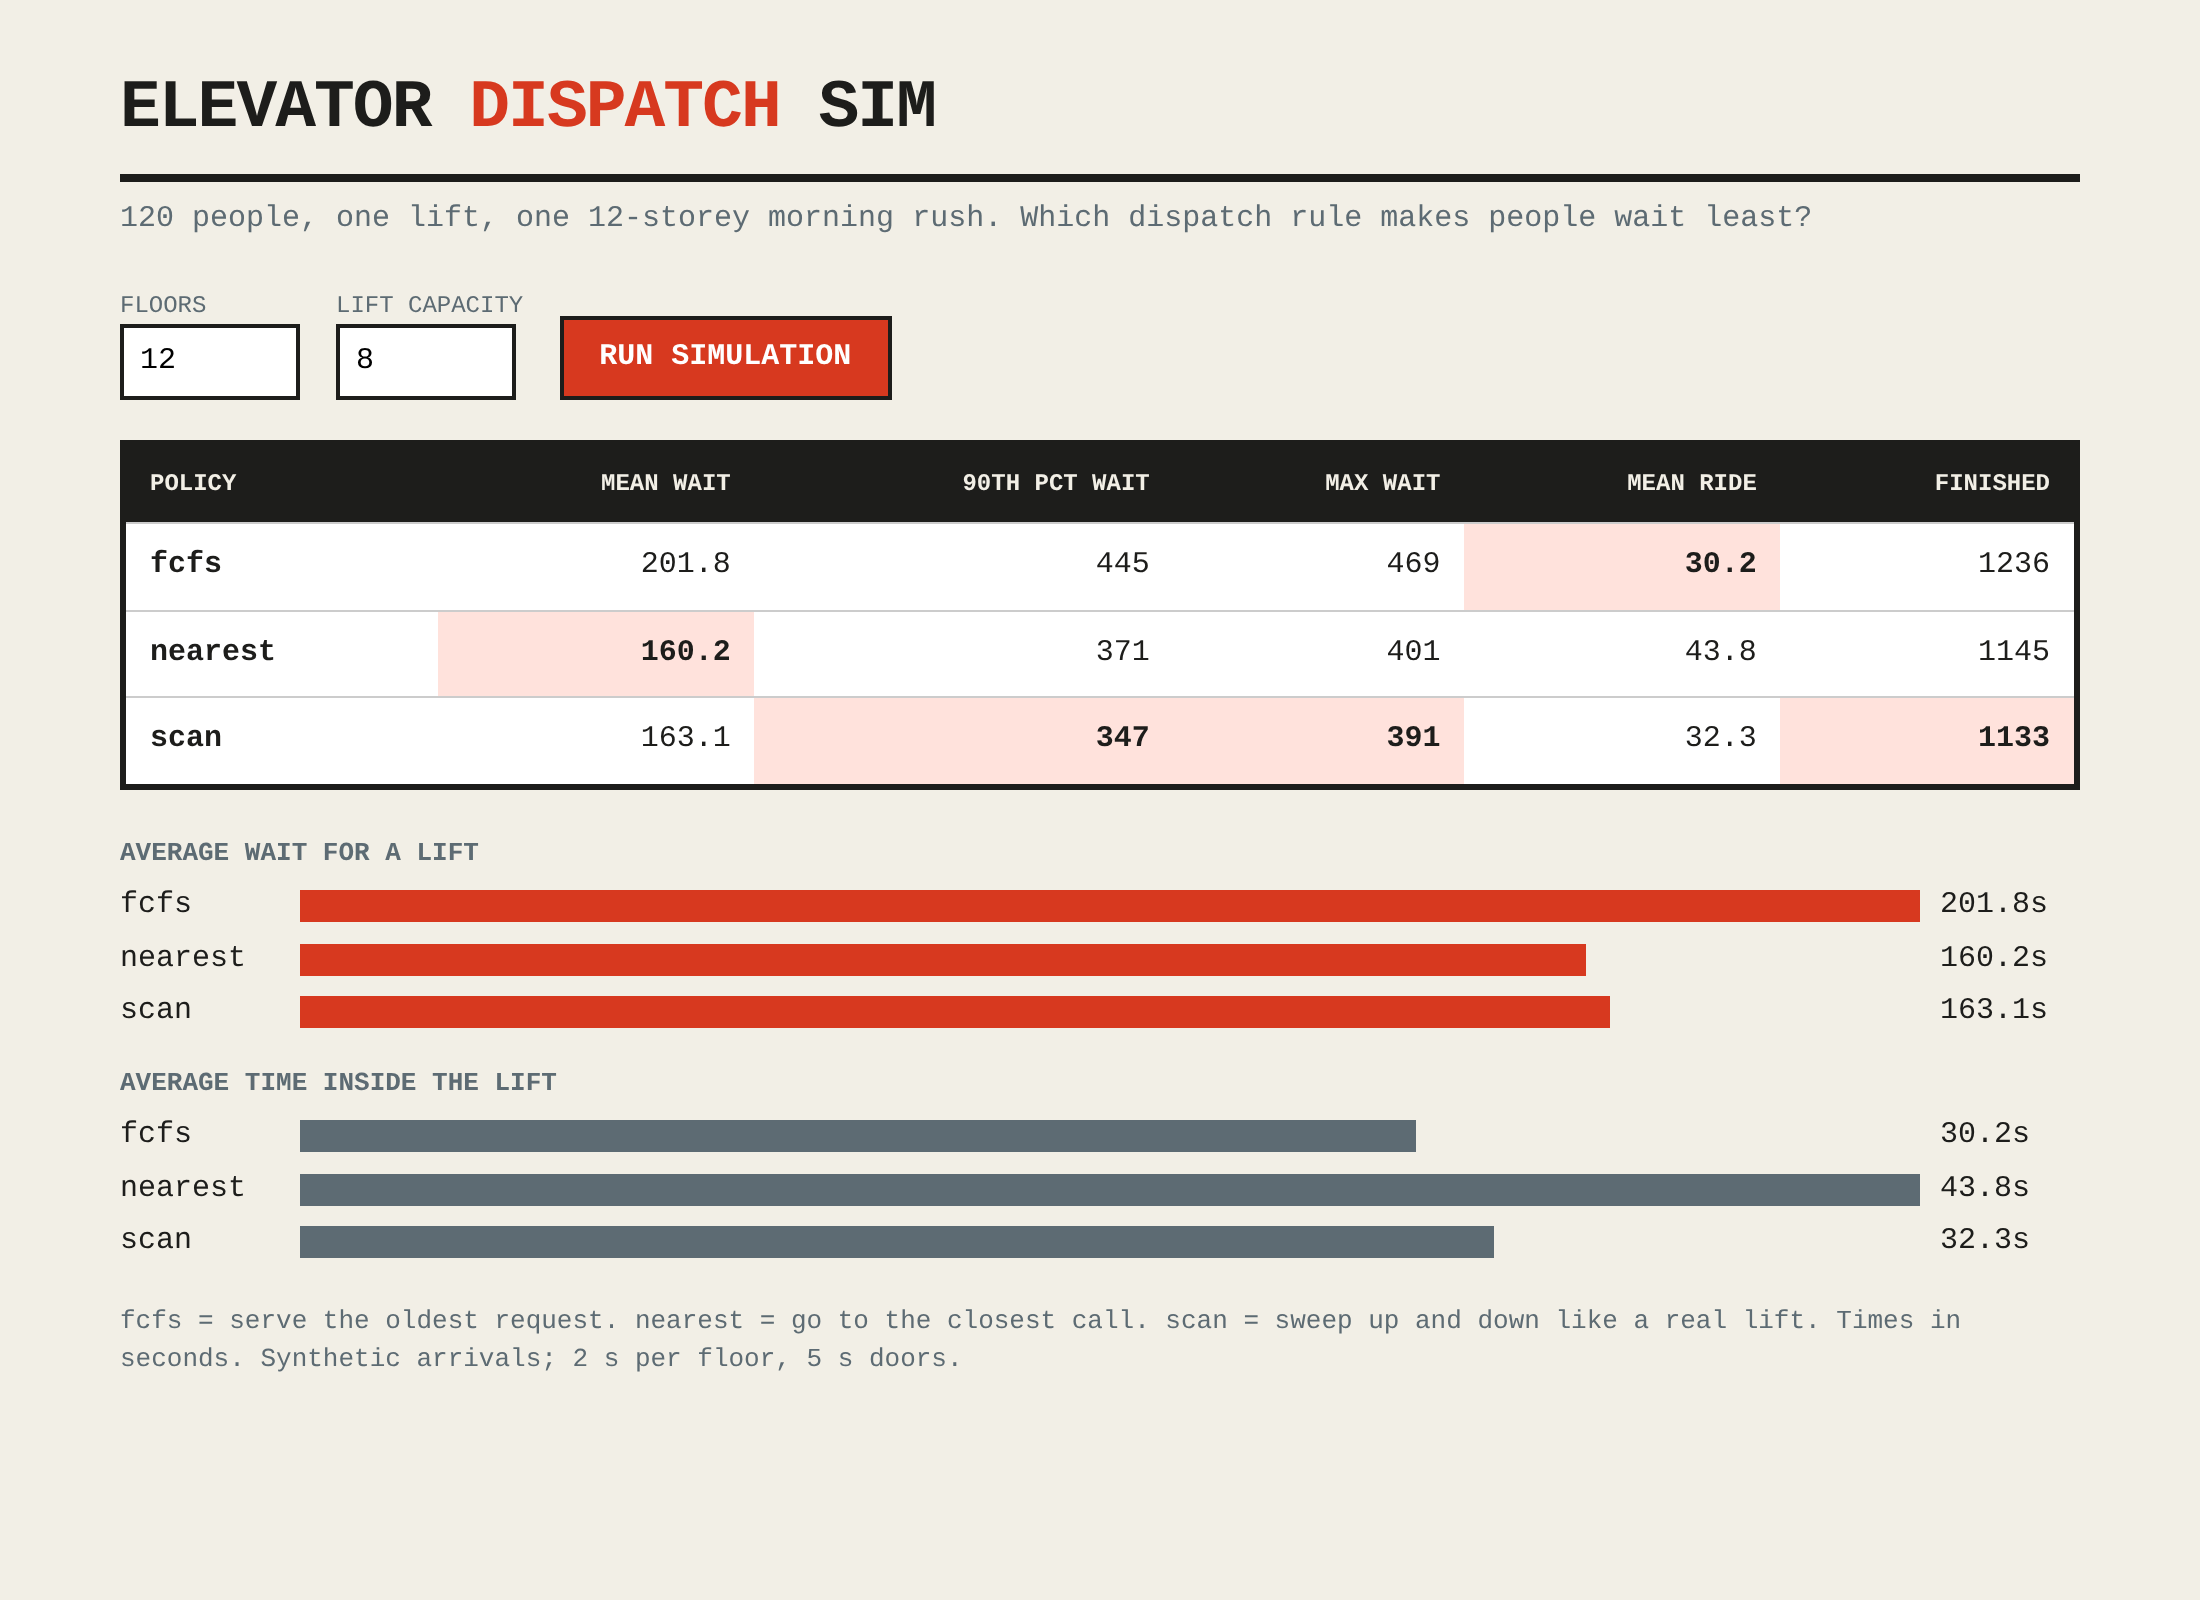
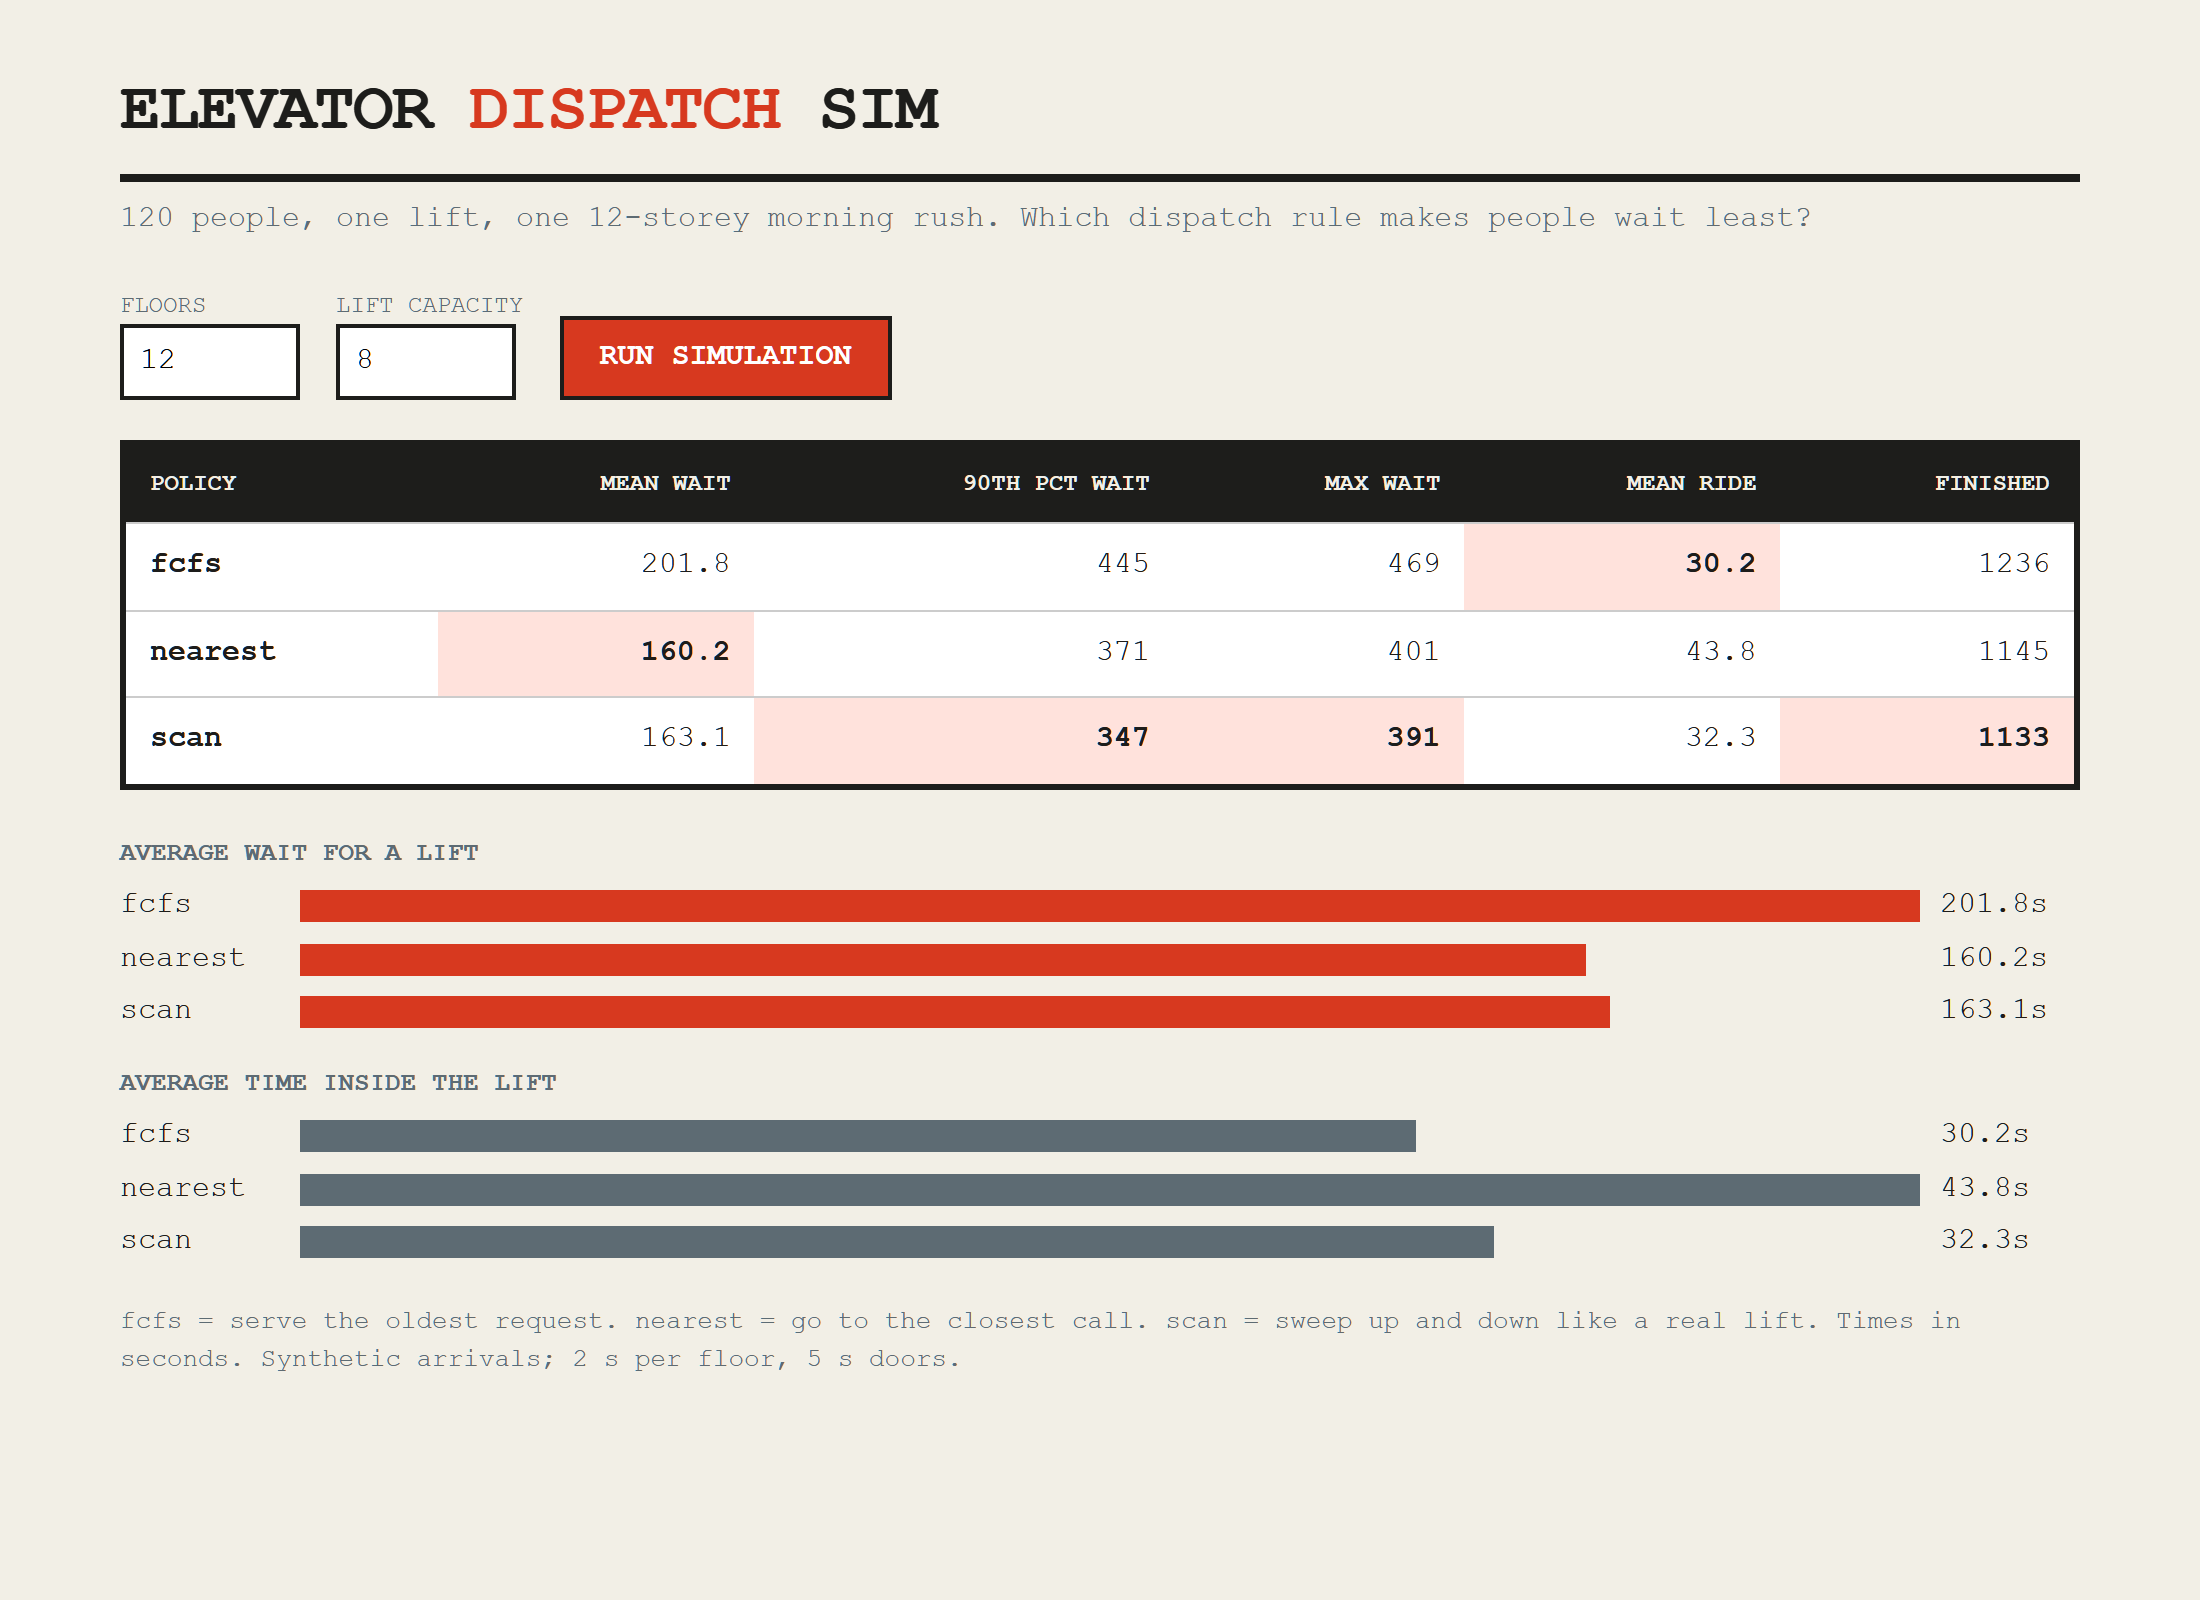
Improve elevator-dispatch-sim

diff --git a/static/index.html b/static/index.html
@@ -12,21 +12,22 @@ th{background:var(--line);color:var(--bg);text-transform:uppercase;font-size:12p
 td.best{background:#ffe2dc;font-weight:700}.bars{margin-top:22px}.g{margin:14px 0}.g h3{margin:0 0 6px;font-size:13px;text-transform:uppercase;color:var(--steel)}
 .b{display:grid;grid-template-columns:80px 1fr 70px;gap:10px;align-items:center;margin:4px 0}.b i{display:block;height:16px;background:var(--steel)}.b i.w{background:var(--red)}
 .m{font-size:13px;color:var(--steel);margin-top:18px}
+@media (prefers-color-scheme: dark){:root{--bg:#14130f;--ink:#ecebe4;--red:#ff6b4a;--steel:#a7b1b7;--line:#ecebe4}table,input{background:#1d1c1a;color:var(--ink)}button{color:#14130f}td.best{background:#5a2a20;color:#fff}th{color:#14130f}}
 </style></head><body><main>
 <h1>Elevator <span>dispatch</span> sim</h1><p class="s">120 people, one lift, one 12-storey morning rush. Which dispatch rule makes people wait least?</p>
 <div class="ctl"><div><label>Floors</label><input id="f" type="number" value="12" min="2" max="40"></div>
 <div><label>Lift capacity</label><input id="c" type="number" value="8" min="1" max="20"></div><button id="go">Run simulation</button></div>
-<table><thead><tr><th>Policy</th><th>Mean wait</th><th>90th pct wait</th><th>Max wait</th><th>Mean ride</th><th>Finished</th></tr></thead><tbody id="t"></tbody></table>
-<div class="bars" id="bars"></div>
+<div style="overflow-x:auto"><table><thead><tr><th>Policy</th><th>Mean wait</th><th>90th pct wait</th><th>Max wait</th><th>Mean ride</th><th>Finished</th></tr></thead><tbody id="t"></tbody></table></div>
+<div class="bars" id="bars" role="status"></div>
 <p class="m">fcfs = serve the oldest request. nearest = go to the closest call. scan = sweep up and down like a real lift. Times in seconds. Synthetic arrivals; 2 s per floor, 5 s doors.</p></main>
 <script>
 const $=i=>document.getElementById(i);
-async function run(){
+async function run(){try{
 const r=(await (await fetch('/compare',{method:'POST',headers:{'Content-Type':'application/json'},body:JSON.stringify({floors:+$('f').value,capacity:+$('c').value})})).json()).results;
 const names=Object.keys(r),best=(k)=>Math.min(...names.map(n=>r[n][k]));
 const cols=['mean_wait','p90_wait','max_wait','mean_ride','finish_s'];
 $('t').innerHTML=names.map(n=>`<tr><td>${n}</td>`+cols.map(k=>`<td class="${r[n][k]===best(k)?'best':''}">${r[n][k]}</td>`).join('')+'</tr>').join('');
 const grp=(k,t,cls)=>{const mx=Math.max(...names.map(n=>r[n][k]));return `<div class="g"><h3>${t}</h3>`+names.map(n=>`<div class="b"><span>${n}</span><i class="${cls}" style="width:${r[n][k]/mx*100}%"></i><span>${r[n][k]}s</span></div>`).join('')+'</div>'};
-$('bars').innerHTML=grp('mean_wait','Average wait for a lift','w')+grp('mean_ride','Average time inside the lift','');}
+$('bars').innerHTML=grp('mean_wait','Average wait for a lift','w')+grp('mean_ride','Average time inside the lift','');}catch(e){$('bars').innerHTML='<p>Could not run the simulation. Try again.</p>';}}
 $('go').onclick=run;run();
 </script></body></html>

diff --git a/tests/test_all.py b/tests/test_all.py
@@ -67,3 +67,15 @@ def test_api():
     assert r2["fcfs"]["mean_ride"] == 11
     assert c.post("/compare", json={"trips": [{"time_s": 0, "origin": 1, "dest": 1}]}).status_code == 422
     assert c.get("/").status_code == 200
+
+
+def test_index_has_compare_error_text():
+    assert "Could not run the simulation" in c.get("/").text
+
+
+def test_index_announces_results():
+    assert 'id="bars" role="status"' in c.get("/").text
+
+
+def test_index_has_dark_colour_scheme():
+    assert "prefers-color-scheme: dark" in c.get("/").text
